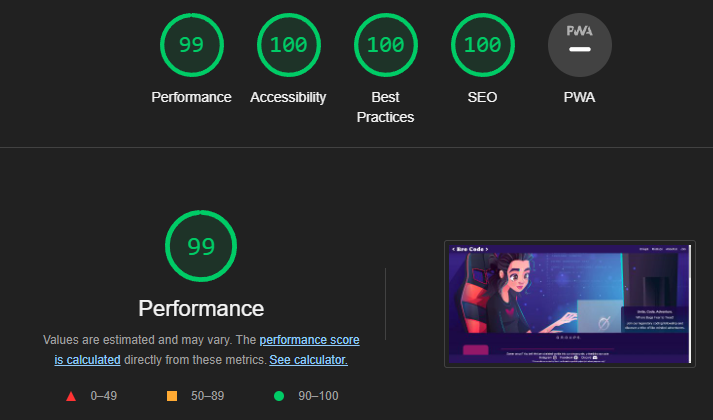
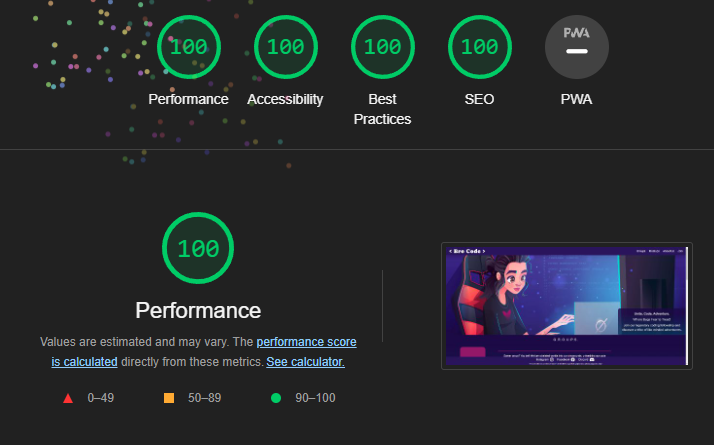
Update Lighthouse results in README

diff --git a/README.md b/README.md
@@ -323,16 +323,25 @@ Together, these colors unite to compose a harmonious palette that captures the e
 * I have confirmed that the form works, requires an email address, the submit button works and takes the user to a thank you page.
 
 ### Lighthouse
-I tested my website using the Lighthouse feature on Dev Tools. All 3 pages returned the desired results.
+I tested my website using the Lighthouse feature on Dev Tools. All 3 pages returned the desired results on both desktop and mobile testing.
 
 * Main Page Lighthouse Results
-![Lighthouse Main Page](README-media/lighthouse-main-page.png)
+![Main Page Lighthouse Results](README-media/lighthouse-main-page.png)
+
+* Mobile Main Page Lighthouse Results
+![Mobile Main Page Lighthouse Results](README-media/lighthouse-main-page-mobile.png)
 
 * Signup Page Lighthouse Results
-![Lighthouse Signup Page](README-media/lighthouse-signup-page.png)
+![Signup Page Lighthouse Results](README-media/lighthouse-signup-page.png)
+
+* Mobile Signup Page Lighthouse Results
+![Mobile Signup Page Lighthouse Results](README-media/lighthouse-signup-page-mobile.png)
 
 * Thank You Page Lighthouse Results
-![Lighthouse Thank You Page](README-media/lighthouse-thank-you-page.png)
+![Thank You Page Lighthouse Results](README-media/lighthouse-thank-you-page.png)
+
+* Mobile Thank You Page Lighthouse Results
+![Mobile Thank You Page Lighthouse Results](README-media/lighthouse-thank-you-page-mobile.png)
 
 ### Validator Testing
 * HTML
